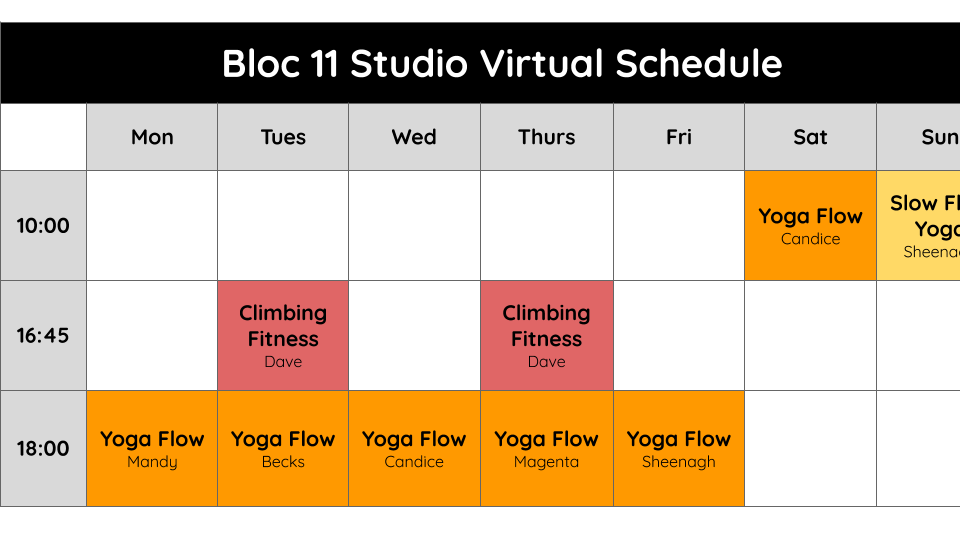
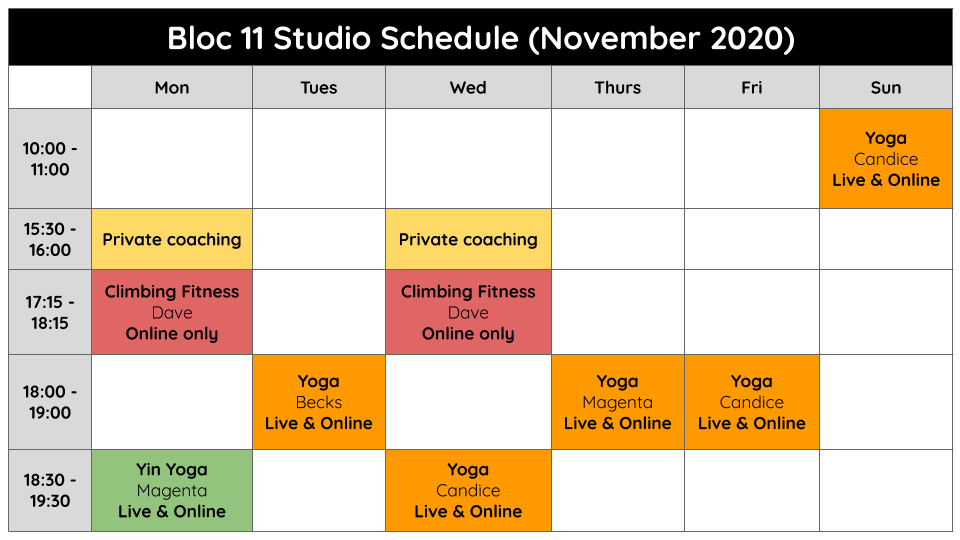
add yoga schedule

diff --git a/index.html b/index.html
@@ -254,8 +254,8 @@
                     <button class="close-btn js-close-btn">&times;</button>
                     <div class="modal-body">
                         <h2>Yoga timetable</h2>
-                        <a href="img/yoga/schedule.jpg">
-                            <img src="img/yoga/schedule.jpg" alt="Bloc11 yoga schedule" style="width: 100%" />
+                        <a href="img/yoga/schedule.png">
+                            <img src="img/yoga/schedule.png" alt="Bloc11 yoga schedule" style="width: 100%" />
                         </a>
                         <div><p>We're streaming yoga and fitness classes live! Its easy to join our Bloc 11 Virtual Studio by downloading the Zoom App and clicking on <a href="https://us04web.zoom.us/j/4679979552">this link</a>
                         <br/>
